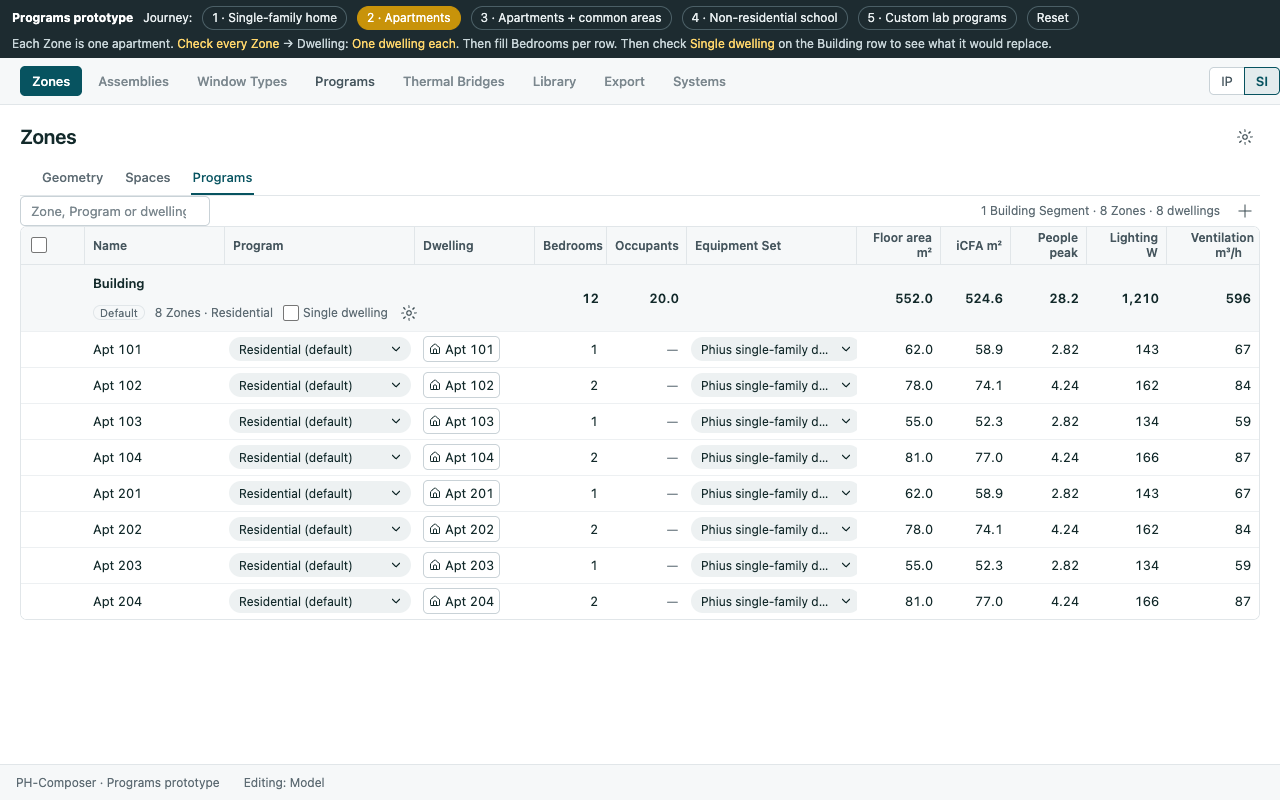
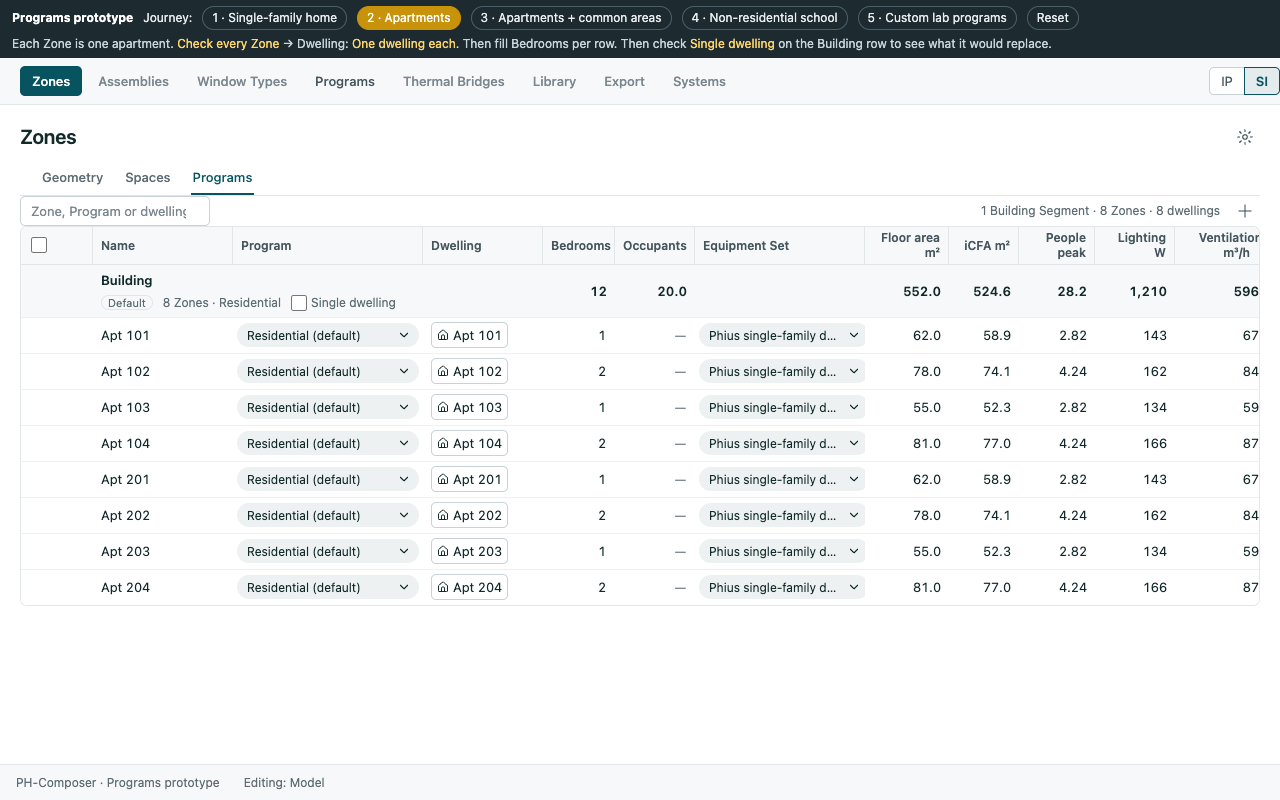
Building Segments: Segment row actions in the left Actions cell
Settings and Delete move off the heading into the row's Actions cell, revealed on hover as in Geometry and Spaces.

diff --git a/planning/features/phase-04a-program/mockups/programs.html b/planning/features/phase-04a-program/mockups/programs.html
@@ -133,11 +133,7 @@
   .zp-seg-title { min-width:0; overflow:hidden; text-overflow:ellipsis; white-space:nowrap; }
   .zp-seg-line2 { display:flex; align-items:center; gap:10px; min-height:22px; font-weight:400; font-size:12px; color:var(--muted); }
   .zp-seg-line2 .zp-seg-count { font-size:12px; }
-  .zp-seg-gear { width:22px; height:22px; margin-left:-4px; }
-  .zp-seg-tools { display:inline-flex; gap:2px; margin-left:auto; flex:none; }
-  .zp-seg-tools .phc-icon-button { width:24px; height:24px; }
-  .zp-seg-tools .zp-hover { visibility:hidden; }
-  .zp-seg:hover .zp-seg-tools .zp-hover, .zp-seg:focus-within .zp-seg-tools .zp-hover { visibility:visible; }
+  .zp-seg td.col-actions { vertical-align:top; padding-top:6px; }
   .zp-seg.is-none td { color:var(--muted); }
   .zp-out td { color:var(--muted); }
   .zp-seg-rename { font:inherit; font-weight:600; width:180px; padding:1px 6px; }
@@ -403,8 +399,8 @@
     var tips = { area: "Gross Zone floor area: the basis honeybee divides per-area loads by.", icfa: "Weighted Space floor area (iCFA): the basis of the Phius residential rules.",
       people: "Peak people. Residential default: the dwelling's occupants ÷ the presence schedule's mean, shared by gross floor area.", light: "Installed lighting. Per-area Programs: W/m² × gross floor area. Residential default: Phius interior lighting from iCFA and dwellings.",
       vent: "Program ventilation for this Zone. Space airflows, where set, replace it at export.", occ: "Average occupants (honeybee-ph number_people). Left empty, the dwelling uses the Phius rule: bedrooms + 1 per unit." };
-    var width = 64 + COLS.reduce(function (a, c) { return a + c[2]; }, 0);
-    h += '<div class="phc-table-mount" style="--row-actions-width:64px; position:relative"><table class="phc-table is-tree reveals-row-actions zp-table" style="min-width:' + width + 'px"><colgroup><col style="width:64px">' + COLS.map(function (c) { return '<col style="width:' + c[2] + 'px">'; }).join("") + '</colgroup><thead><tr>' +
+    var width = 72 + COLS.reduce(function (a, c) { return a + c[2]; }, 0);
+    h += '<div class="phc-table-mount" style="--row-actions-width:72px; position:relative"><table class="phc-table is-tree reveals-row-actions zp-table" style="min-width:' + width + 'px"><colgroup><col style="width:72px">' + COLS.map(function (c) { return '<col style="width:' + c[2] + 'px">'; }).join("") + '</colgroup><thead><tr>' +
       '<th class="col-actions"><span class="phc-header-label-row">' + '<input class="row-check" type="checkbox" data-act="check-all" aria-label="Check every Zone"' + (nChecked && nChecked === checkable().length ? " checked" : "") + '>' + '</span></th>' +
       COLS.map(function (c) { return '<th class="' + (c[3] ? "num" : "") + '"' + (tips[c[0]] ? ' data-tip="' + esc(tips[c[0]]) + '"' : "") + '><span class="phc-header-label-row"><span class="phc-th-label">' + c[1] + '</span></span></th>'; }).join("") + '</tr></thead><tbody>';
     S.segments.forEach(function (g) {
@@ -416,7 +412,7 @@
         if (z.dwelling && !seenDw[z.dwelling]) { seenDw[z.dwelling] = 1; var t = dwellingTotals(z.dwelling); sum.beds += t.beds; sum.occ += t.occ; }
       });
       var sf = segFindings(g);
-      h += '<tr class="tier-0 zp-seg"><td class="col-actions"></td><td colspan="3">' + segHead(g, zs.length, sf) + '</td>' +
+      h += '<tr class="tier-0 zp-seg"><td class="col-actions">' + segActions(g) + '</td><td colspan="3">' + segHead(g, zs.length, sf) + '</td>' +
         (g.single ? houseCells(g) : '<td class="num">' + (Object.keys(seenDw).length ? fmt(sum.beds) : "") + '</td><td class="num">' + (Object.keys(seenDw).length ? fmt(sum.occ, 1) : "") + '</td><td></td>') +
         (zs.length ? '<td class="num">' + fmt(sum.area, 1) + '</td><td class="num">' + fmt(sum.icfa, 1) + '</td><td class="num">' + fmt(sum.people, 1) + '</td><td class="num">' + fmt(sum.light) + '</td><td class="num">' + (sum.ventMissing ? '<span class="zp-amber">?</span>' : fmt(sum.vent)) + '</td>' : '<td colspan="5"></td>') + '</tr>';
       zs.forEach(function (z) { h += g.single ? frozenRow(z) : zoneRow(z); });
@@ -435,20 +431,22 @@
     return h;
   }
   // The Building Segment heading: the name alone on the first line (Delete on hover; rename in settings), then a
-  // second line with the Default tag, Zone count and category, Single dwelling and the settings icon.
+  // second line with the Default tag, Zone count and category and Single dwelling. Its actions sit in the
+  // row's Actions cell, revealed on hover as in Geometry and Spaces.
+  function segActions(g) {
+    var only = S.segments.length === 1;
+    return '<button type="button" class="phc-icon-button row-icon" data-row-action="settings" data-act="seg-settings" data-v="' + g.id + '" aria-label="Building Segment settings" data-tip="Building Segment settings">' + svg("settings", 16) + '</button>' +
+      '<button type="button" class="phc-icon-button row-icon row-delete" data-row-action="delete" data-act="seg-delete" data-v="' + g.id + '" aria-label="Delete ' + esc(g.name) + '"' +
+      (only ? ' aria-disabled="true" data-tip="A model keeps at least one Building Segment."' : ' data-tip="Delete ' + esc(g.name) + '"') + '>' + svg("del", 16) + '</button>';
+  }
   function segHead(g, n, sf) {
     var name = S.renaming === g.id ? '<input class="zp-seg-rename" data-act="seg-rename" data-v="' + g.id + '" value="' + esc(g.name) + '" aria-label="Building Segment name">' : esc(g.name);
-    var only = S.segments.length === 1;
-    var del = only ? '<span class="zp-hover" data-tip="A model keeps at least one Building Segment."><button type="button" class="phc-icon-button assembly-tool-icon" disabled aria-label="Delete ' + esc(g.name) + '">' + svg("del", 16) + '</button></span>'
-      : iconBtn("del", "Delete " + g.name, "seg-delete", ' data-v="' + g.id + '"').replace('class="', 'class="zp-hover ');
     return '<div class="zp-seg-head"><div class="zp-seg-line1">' +
-      (S.renaming === g.id ? name : '<span class="zp-seg-title" data-tip="' + esc(g.name) + '">' + name + '</span>') + (sf.length ? flag(sf.join(" ")) : "") +
-      '<span class="zp-seg-tools">' + del + '</span></div>' +
+      (S.renaming === g.id ? name : '<span class="zp-seg-title" data-tip="' + esc(g.name) + '">' + name + '</span>') + (sf.length ? flag(sf.join(" ")) : "") + '</div>' +
       '<div class="zp-seg-line2">' +
       (g.id === S.defaultSeg ? '<span class="zp-seg-tag" data-tip="New Zones join this Building Segment. Change it in Settings.">Default</span>' : "") +
       '<span class="zp-seg-count">' + n + ' Zone' + (n === 1 ? "" : "s") + ' · ' + (g.category === "res" ? "Residential" : "Non-residential") + '</span>' +
-      '<label class="zp-seg-single" data-tip="' + esc(SINGLE_TIP) + '"><input type="checkbox" data-act="single" data-v="' + g.id + '"' + (g.single ? " checked" : "") + '>Single dwelling</label>' +
-      iconBtn("settings", "Building Segment settings", "seg-settings", ' data-v="' + g.id + '"').replace('class="', 'class="zp-seg-gear ') + '</div></div>';
+      '<label class="zp-seg-single" data-tip="' + esc(SINGLE_TIP) + '"><input type="checkbox" data-act="single" data-v="' + g.id + '"' + (g.single ? " checked" : "") + '>Single dwelling</label></div></div>';
   }
   var SINGLE_TIP = "Every Zone in this Building Segment is one dwelling with the residential default Program. Bedrooms, occupants and the Equipment Set are entered once, on this row. Uncheck to assign per Zone; everything it set stays.";
   // Zones a check can select: those in a Single dwelling Segment are locked.
@@ -898,7 +896,7 @@
     }
     else if (a === "new-seg") { var ng = newSegment(); notify(ng.name + " created. Move Zones into it from the selection bar."); }
     else if (a === "seg-settings") { openSegSettings(v); return; }
-    else if (a === "seg-delete") { confirmDeleteSeg(v); return; }
+    else if (a === "seg-delete") { if (el.getAttribute("aria-disabled") === "true") return; confirmDeleteSeg(v); return; }
     else return;
     render();
   });

diff --git a/planning/features/phase-04a-program/mockups/README.md b/planning/features/phase-04a-program/mockups/README.md
@@ -18,7 +18,7 @@ server. The dark strip at the top picks a journey and says what to try; Reset re
 | 1. Single-family home, five Zones, one dwelling | Single dwelling is on: type the bedrooms on the Building Segment row. Uncheck it, then click the House chip | `j1-start` (`journey=1`), `j1-bedrooms` (`journey=1&do=house3`), `j1-unlocked` (`journey=1&do=house3,unsingle,bubble`), `j1-default-program` (`journey=1&do=pdefault`) |
 | 2. Apartments, one Zone each | Check every Zone, Dwelling: One dwelling each. Then check Single dwelling to see its confirmation | `j2-checked` (`journey=2&do=checkall`), `j2-dwellings` (`journey=2&do=each,beds`), `j2-single-confirm` (`journey=2&do=each,beds,trysingle`) |
 | 3. Apartments plus corridors, lobby, stair, office, gym | Apartments as in 2; pick Phius Multifamily Programs for the rest from the Program choice | `j3-corridors-checked` (`journey=3&do=each,beds,checkcorr`), `j3-common-areas` and `-420` (`journey=3&do=each,beds,common`) |
-| Building Segments (journey 3, then 1) | Check the Bike shed, Building Segment: No Building Segment or New Building Segment. Hover a Segment row for Delete; its settings icon opens the dialog, where it is renamed | `j3-no-segment` (`…,common,moveshed`), `j3-move-segment` (`…,common,checkshed`), `j3-new-segment` (`…,common,newseg`), `j3-segment-settings` (`…,common,segsettings`), `j3-delete-segment` (`…,common,newseg,trydelete`), `j1-segment-settings` (`journey=1&do=house3,segsettings`), `j1-adu` (`journey=1&do=house3,adu`) |
+| Building Segments (journey 3, then 1) | Check the Bike shed, Building Segment: No Building Segment or New Building Segment. Hover a Segment row: Settings and Delete appear in its Actions cell; settings is where it is renamed | `j3-no-segment` (`…,common,moveshed`), `j3-move-segment` (`…,common,checkshed`), `j3-new-segment` (`…,common,newseg`), `j3-segment-settings` (`…,common,segsettings`), `j3-delete-segment` (`…,common,newseg,trydelete`), `j1-segment-settings` (`journey=1&do=house3,segsettings`), `j1-adu` (`journey=1&do=house3,adu`), `j1-segment-actions` (the ADU row hovered) |
 | 4. Non-residential school | Unassigned Zones are flagged; assign from Phius Non-Residential, or browse the library sidebar | `j4-start` (`journey=4`), `j4-assigned` (`journey=4&do=school`), `j4-library` (`journey=4&do=school,libnr`), `j4-long-name` (`journey=4&do=school,longname`) |
 | 5. Custom lab programs | Programs tab, + on the rail, set loads, open a schedule chip | `j5-program` and `-420` (`journey=5&do=custom`), `j5-schedule` (`journey=5&do=custom,customsched`) |
 | Equipment Sets | Programs tab, Equipment Sets | `equipment-sets` (`journey=1&do=sets`) |
@@ -46,9 +46,10 @@ server. The dark strip at the top picks a journey and says what to try; Reset re
   house and an ADU as two single-dwelling Segments.
 - **Building Segments** ([plan](../../unscheduled/building-segments/README.md), BS-1 to BS-6 answered). The
   heading takes two lines: the name alone on the first (a long name truncates, full name in its
-  tooltip, `j4-long-name`), with a findings flag and, on hover, Delete (disabled on the last
-  Segment); no Rename icon, the name is edited in settings; then the Default tag, Zone count and category, Single dwelling and the
-  settings icon.
+  tooltip, `j4-long-name`), with a findings flag; then the Default tag, Zone count and category,
+  and Single dwelling. Settings and Delete sit in the row's Actions cell, revealed on hover as in
+  Geometry and Spaces (`j1-segment-actions`); Delete is disabled on the last Segment, and the name is
+  edited in settings.
   Airtightness, category and certification moved into the Building Segment settings dialog. The
   selection bar moves checked Zones to a Segment, a new one (named, then renamed in place) or No
   Building Segment, a muted last group left out of export. Deleting a used Segment asks where its

diff --git a/planning/features/unscheduled/building-segments/README.md b/planning/features/unscheduled/building-segments/README.md
@@ -53,8 +53,9 @@ membership visible without a column, shows an empty Segment as an empty group, a
 settings dialog one home: a settings icon on the heading row, the same in every view.
 
 - The heading takes two lines. First, the Segment name alone (truncated, full name in its
-  tooltip), a findings flag and, on hover, Delete. Second, a "Default" tag on the default one, the
-  Zone count and category, Single dwelling and the settings icon. The view's own sums (Geometry:
+  tooltip) and a findings flag. Second, a "Default" tag on the default one, the Zone count and
+  category, and Single dwelling. Settings and Delete sit in the row's left Actions cell, revealed on
+  hover, as row actions are in Geometry and Spaces. The view's own sums (Geometry:
   envelope areas; Spaces: iCFA, volume; Programs: bedrooms, people) sit in its columns. No Rename
   icon (Ed, 2026-11-15): the name is edited in settings, and a new Segment opens its name in place.
 - **No Building Segment** is a last, muted group, shown only when it holds a Zone. Its tooltip says
